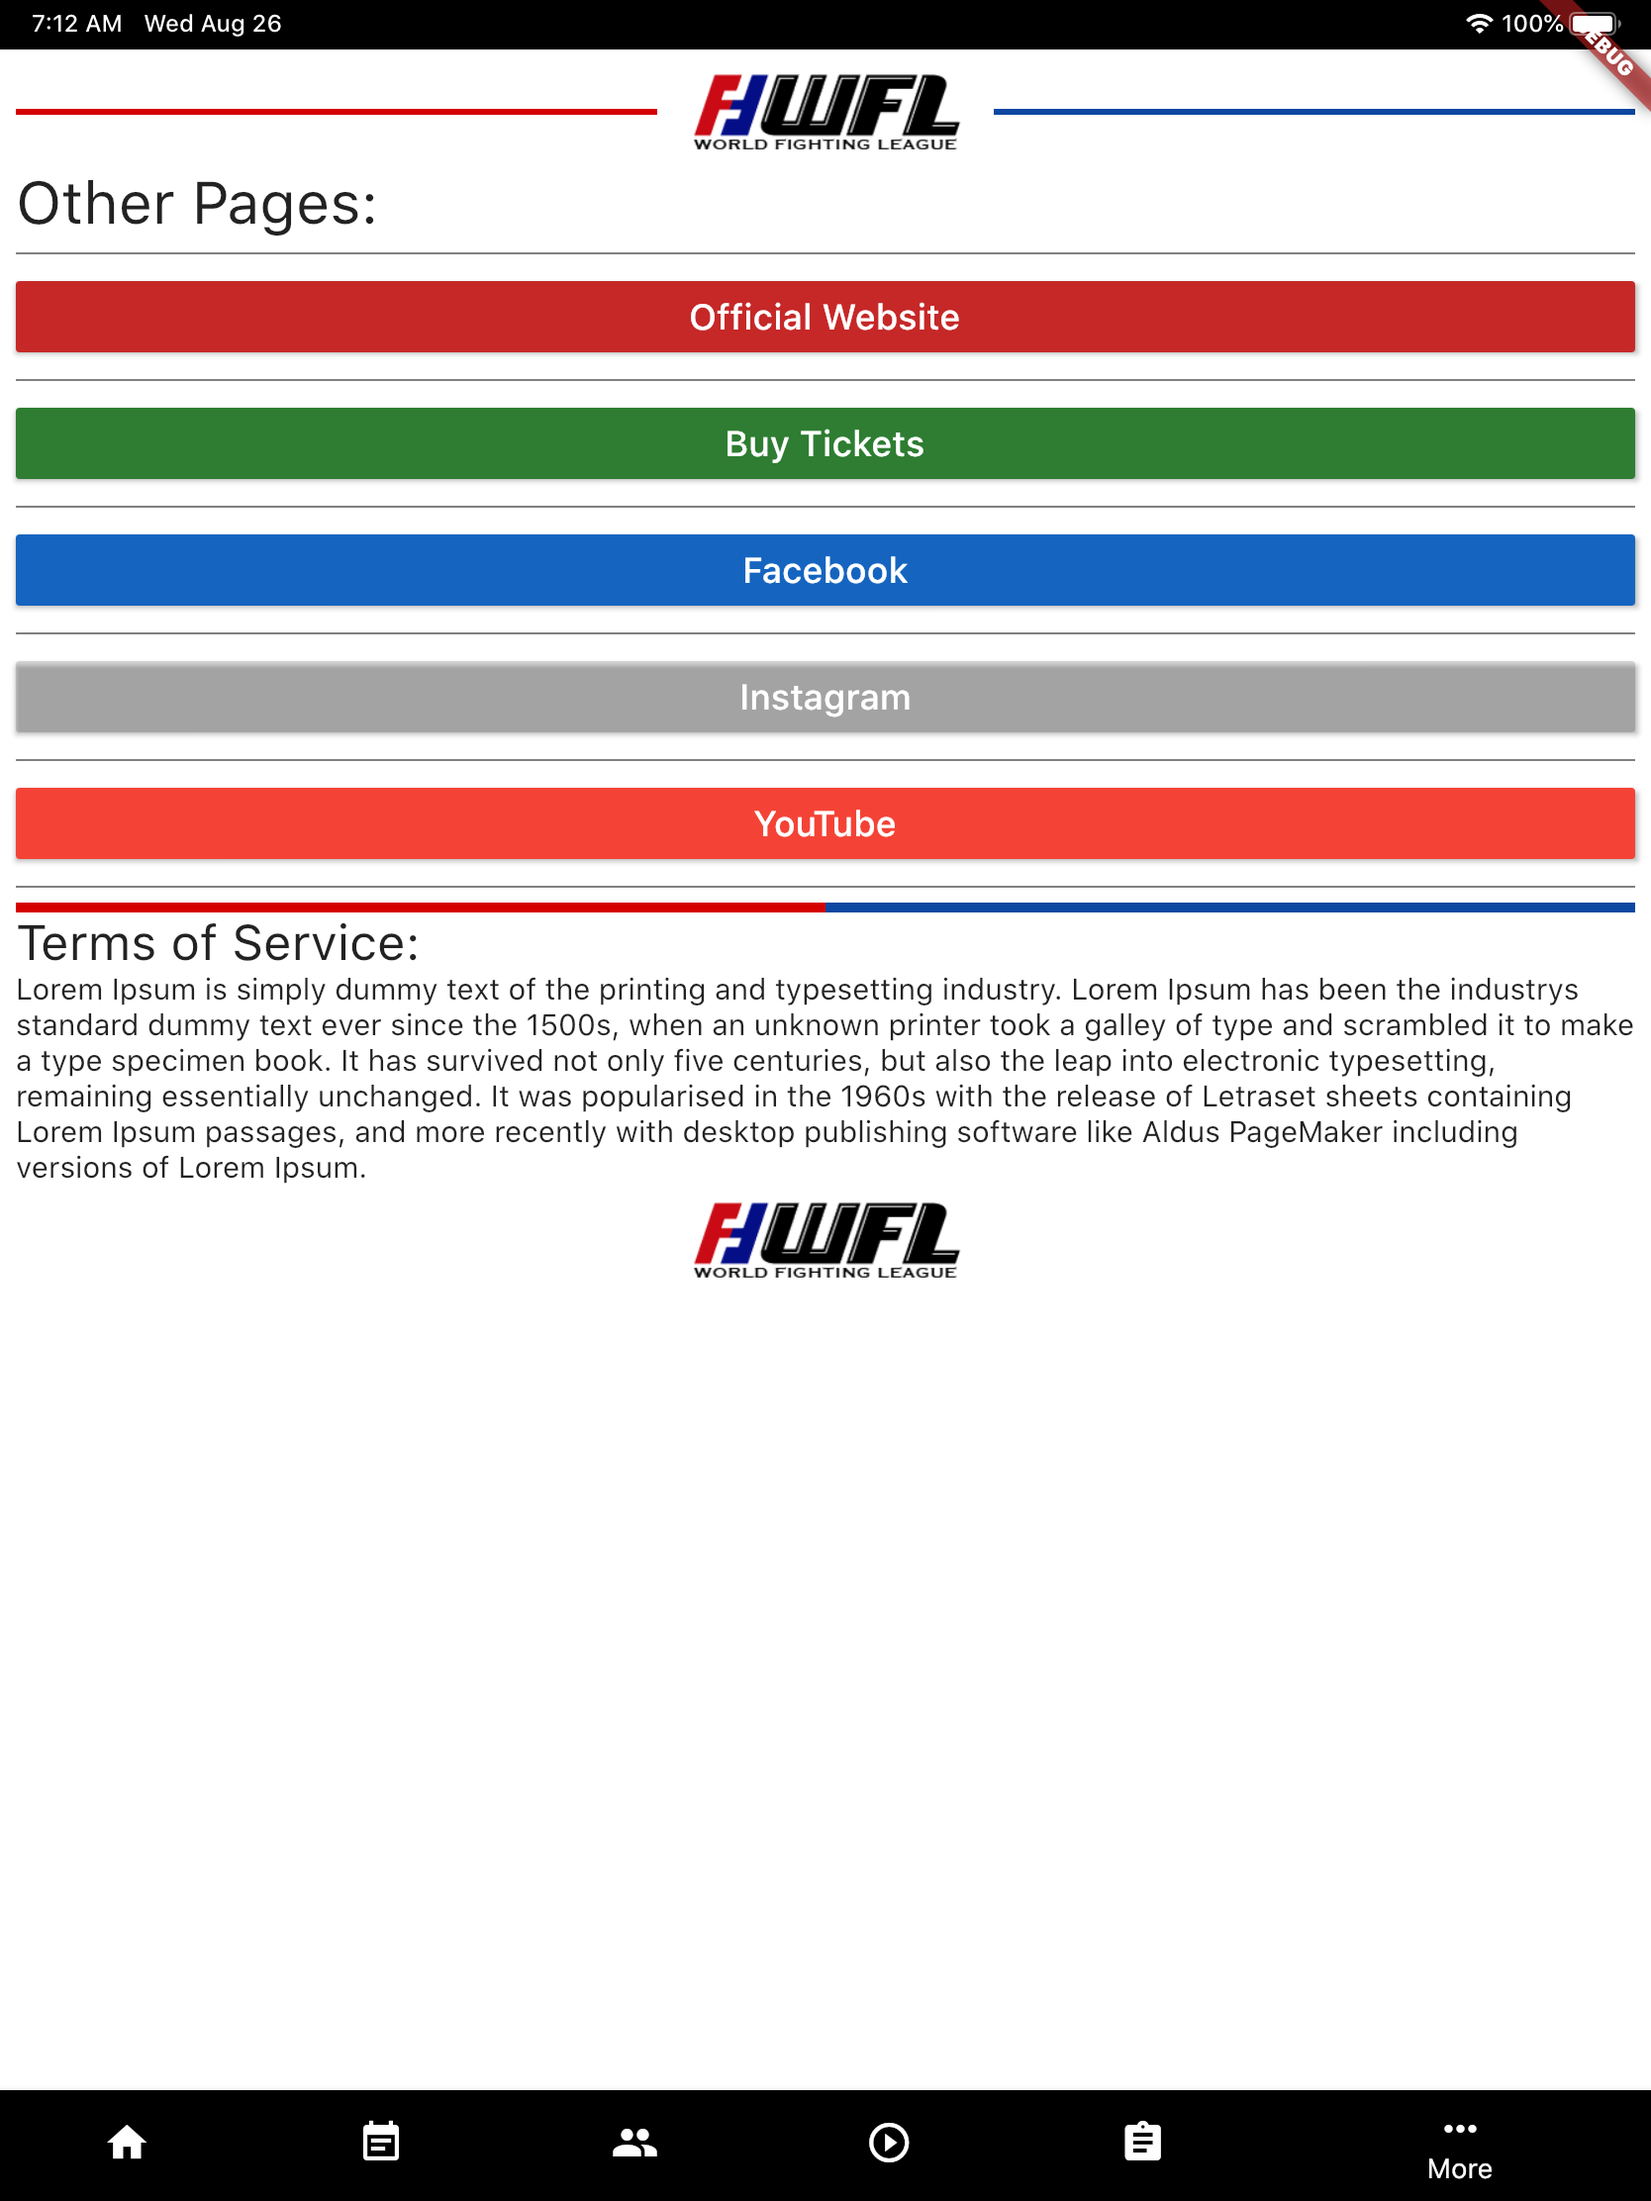
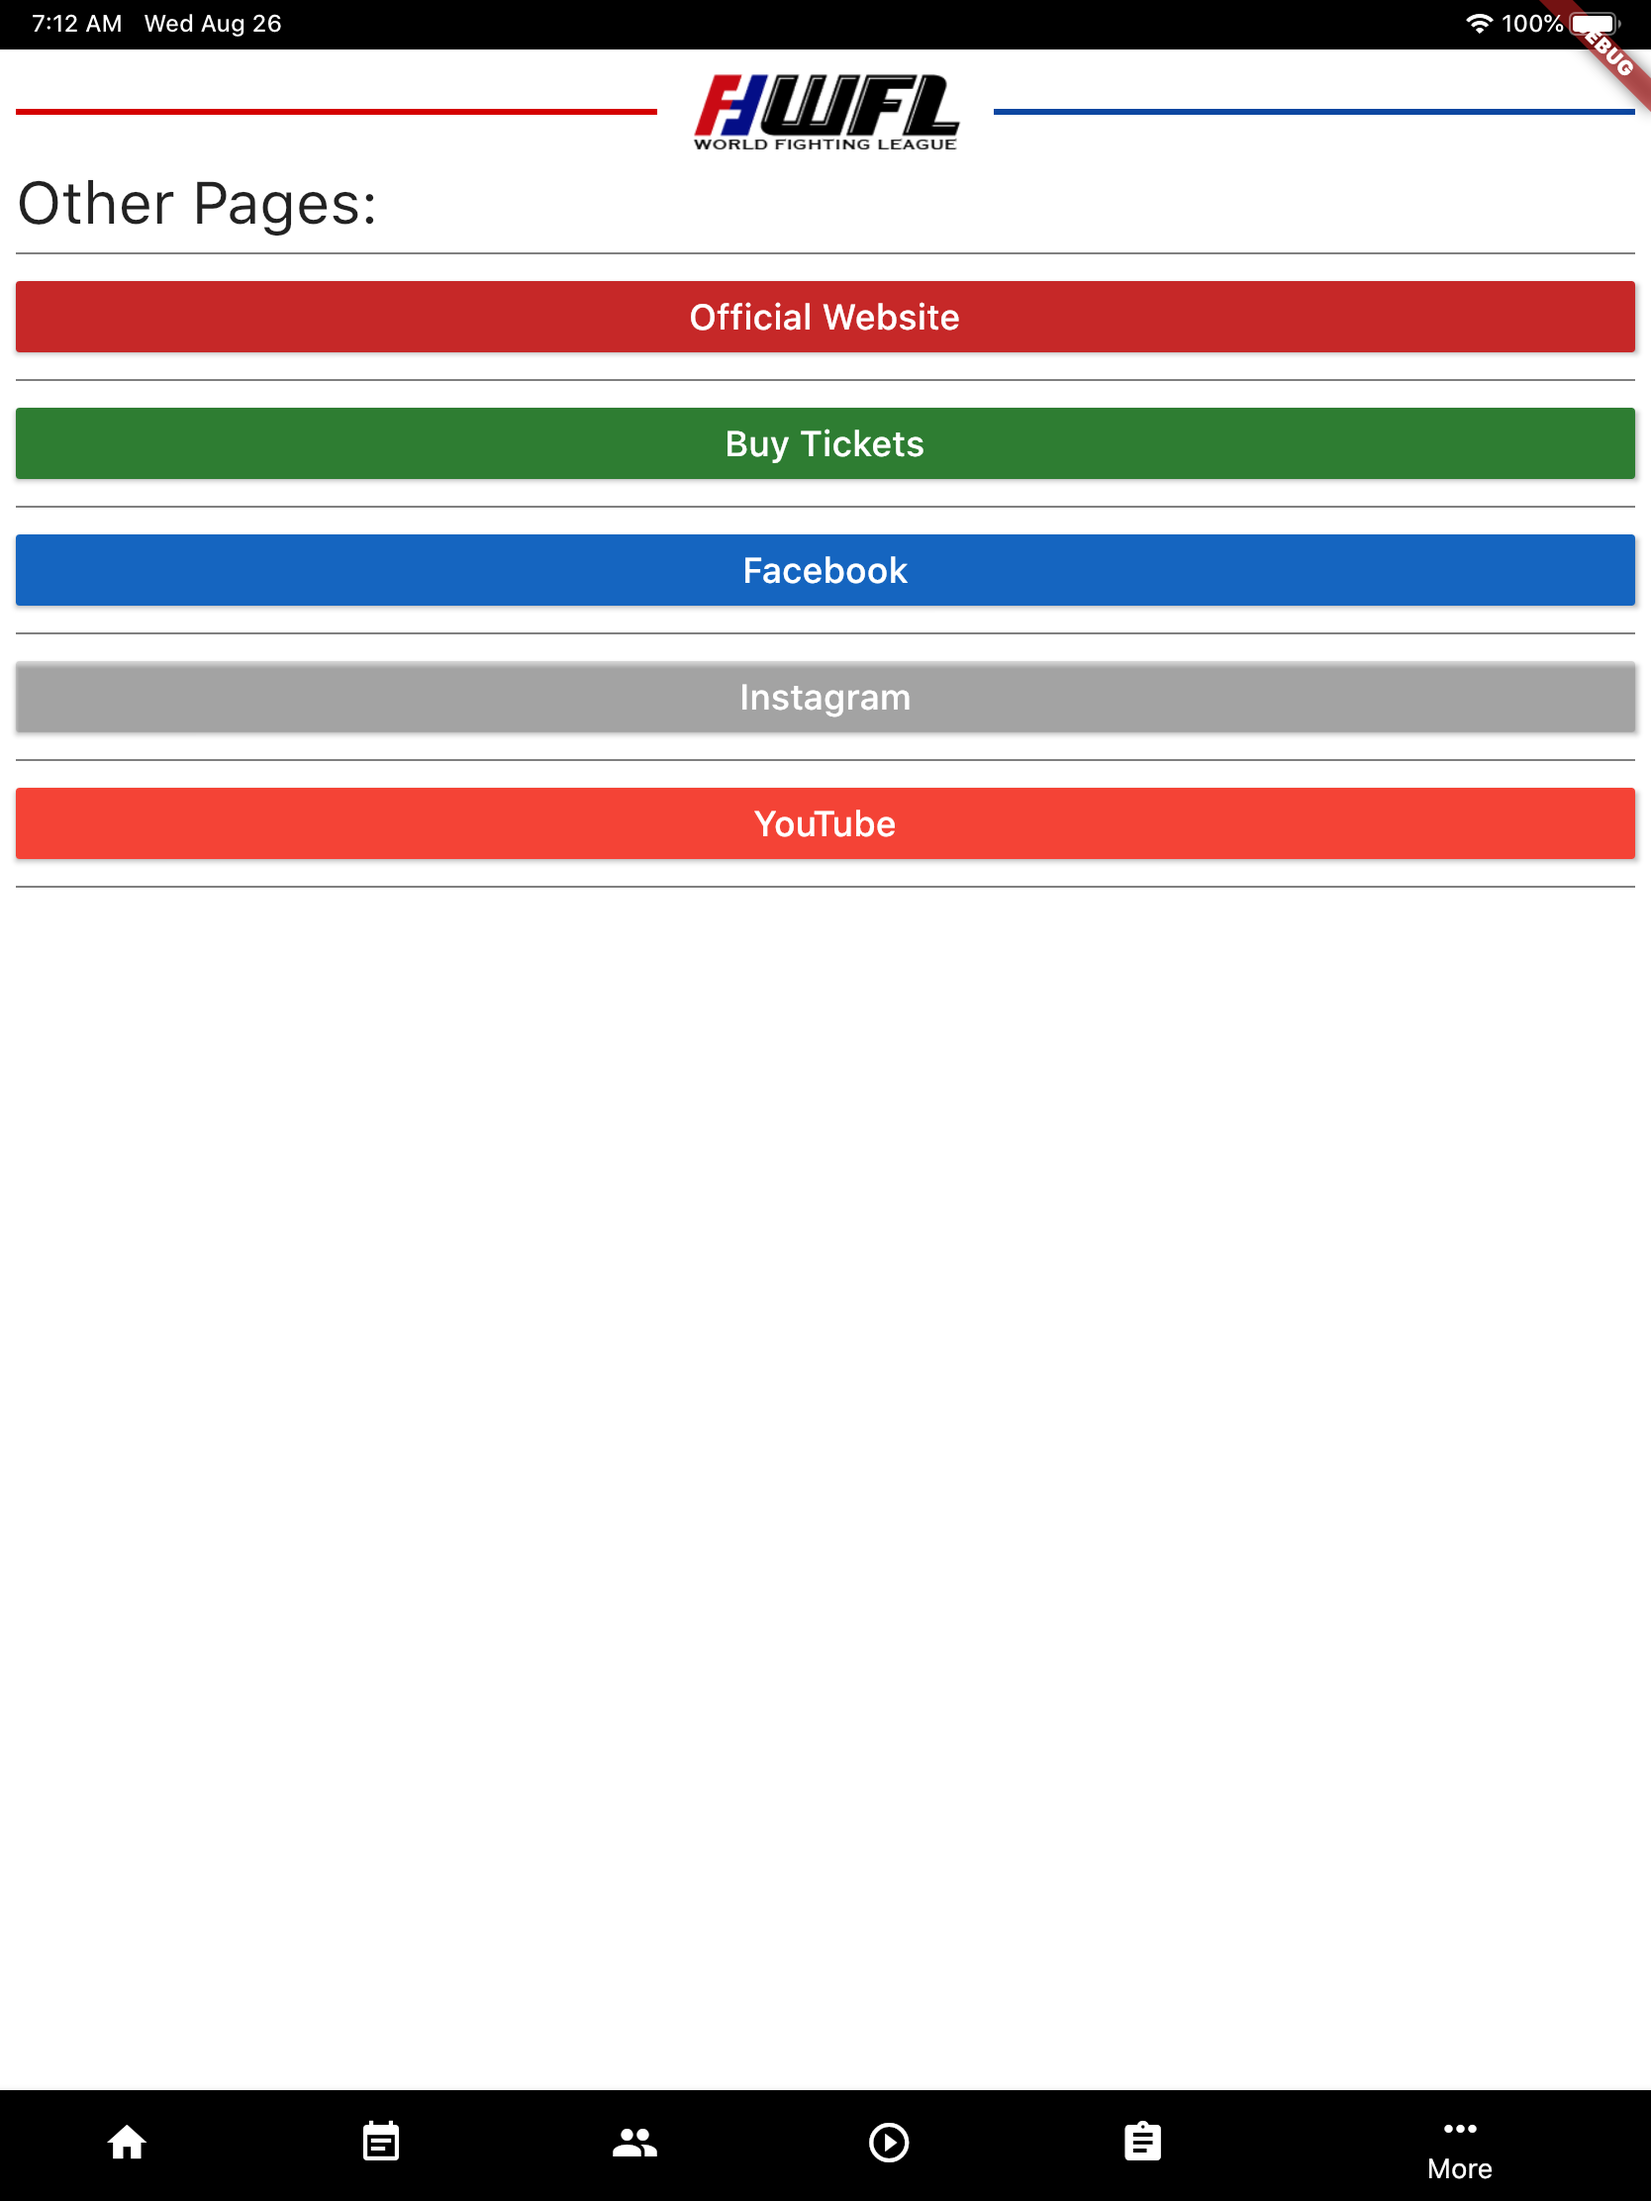
morepage edit en screenshots edit
-Algemene voorwaarde verwijderd uit app
-Algemene voorwaarde uit screenshots geweizigd

Changed region(s): [[0.0, 0.4033, 0.9976, 0.5895]]

diff --git a/wfl_app - niet betaald/lib/Pages/morePages/more_page.dart b/wfl_app - niet betaald/lib/Pages/morePages/more_page.dart
@@ -284,66 +284,6 @@ class _MorePage extends State<MorePage> {
                         ),
                         margin: EdgeInsets.only(left: 8, right: 8),
                       ),
-                      Row(
-                        children: <Widget>[
-                          Expanded(
-                            flex: 5,
-                            child: Container(
-                              height: 5,
-                              color: Colors.redAccent[700],
-                              margin: EdgeInsets.only(left: 8),
-                            ),
-                          ),
-                          Expanded(
-                            flex: 5,
-                            child: Container(
-                              height: 5,
-                              color: Colors.blue[900],
-                              margin: EdgeInsets.only(right: 8),
-                            ),
-                          ),
-                        ],
-                      ),
-                      Container(
-                        child: Column(
-                          children: <Widget>[
-                            Container(
-                              width: 10000,
-                              child: Text(
-                                'Terms of Service:',
-                                style: TextStyle(fontSize: 25),
-                                textAlign: TextAlign.left,
-                              ),
-                            ),
-                          ],
-                        ),
-                        margin: EdgeInsets.only(left: 8, right: 8),
-                      ),
-                      Container(
-                        child: Column(
-                          children: <Widget>[
-                            Container(
-                              width: 10000,
-                              child: Text(
-                                'Lorem Ipsum is simply dummy text of the printing and typesetting industry. Lorem Ipsum has been the industrys standard dummy text ever since the 1500s, when an unknown printer took a galley of type and scrambled it to make a type specimen book. It has survived not only five centuries, but also the leap into electronic typesetting, remaining essentially unchanged. It was popularised in the 1960s with the release of Letraset sheets containing Lorem Ipsum passages, and more recently with desktop publishing software like Aldus PageMaker including versions of Lorem Ipsum.',
-                                style: TextStyle(fontSize: 15),
-                                textAlign: TextAlign.left,
-                              ),
-                            ),
-                          ],
-                        ),
-                        margin: EdgeInsets.only(left: 8, right: 8),
-                      ),
-                      Container(
-                        height: 55,
-                        width: 170,
-                        decoration: BoxDecoration(
-                          image: new DecorationImage(
-                              image: new NetworkImage(
-                                  'https://wfltickets.com/wp-content/uploads/2018/08/world-fighting-league-logo.png'),
-                              fit: BoxFit.fill),
-                        ),
-                      ),
                     ],
                   ),
                 ),

diff --git a/wfl_app/lib/Pages/morePages/more_page.dart b/wfl_app/lib/Pages/morePages/more_page.dart
@@ -284,66 +284,6 @@ class _MorePage extends State<MorePage> {
                         ),
                         margin: EdgeInsets.only(left: 8, right: 8),
                       ),
-                      Row(
-                        children: <Widget>[
-                          Expanded(
-                            flex: 5,
-                            child: Container(
-                              height: 5,
-                              color: Colors.redAccent[700],
-                              margin: EdgeInsets.only(left: 8),
-                            ),
-                          ),
-                          Expanded(
-                            flex: 5,
-                            child: Container(
-                              height: 5,
-                              color: Colors.blue[900],
-                              margin: EdgeInsets.only(right: 8),
-                            ),
-                          ),
-                        ],
-                      ),
-                      Container(
-                        child: Column(
-                          children: <Widget>[
-                            Container(
-                              width: 10000,
-                              child: Text(
-                                'Terms of Service:',
-                                style: TextStyle(fontSize: 25),
-                                textAlign: TextAlign.left,
-                              ),
-                            ),
-                          ],
-                        ),
-                        margin: EdgeInsets.only(left: 8, right: 8),
-                      ),
-                      Container(
-                        child: Column(
-                          children: <Widget>[
-                            Container(
-                              width: 10000,
-                              child: Text(
-                                'Lorem Ipsum is simply dummy text of the printing and typesetting industry. Lorem Ipsum has been the industrys standard dummy text ever since the 1500s, when an unknown printer took a galley of type and scrambled it to make a type specimen book. It has survived not only five centuries, but also the leap into electronic typesetting, remaining essentially unchanged. It was popularised in the 1960s with the release of Letraset sheets containing Lorem Ipsum passages, and more recently with desktop publishing software like Aldus PageMaker including versions of Lorem Ipsum.',
-                                style: TextStyle(fontSize: 15),
-                                textAlign: TextAlign.left,
-                              ),
-                            ),
-                          ],
-                        ),
-                        margin: EdgeInsets.only(left: 8, right: 8),
-                      ),
-                      Container(
-                        height: 55,
-                        width: 170,
-                        decoration: BoxDecoration(
-                          image: new DecorationImage(
-                              image: new NetworkImage(
-                                  'https://wfltickets.com/wp-content/uploads/2018/08/world-fighting-league-logo.png'),
-                              fit: BoxFit.fill),
-                        ),
-                      ),
                     ],
                   ),
                 ),
